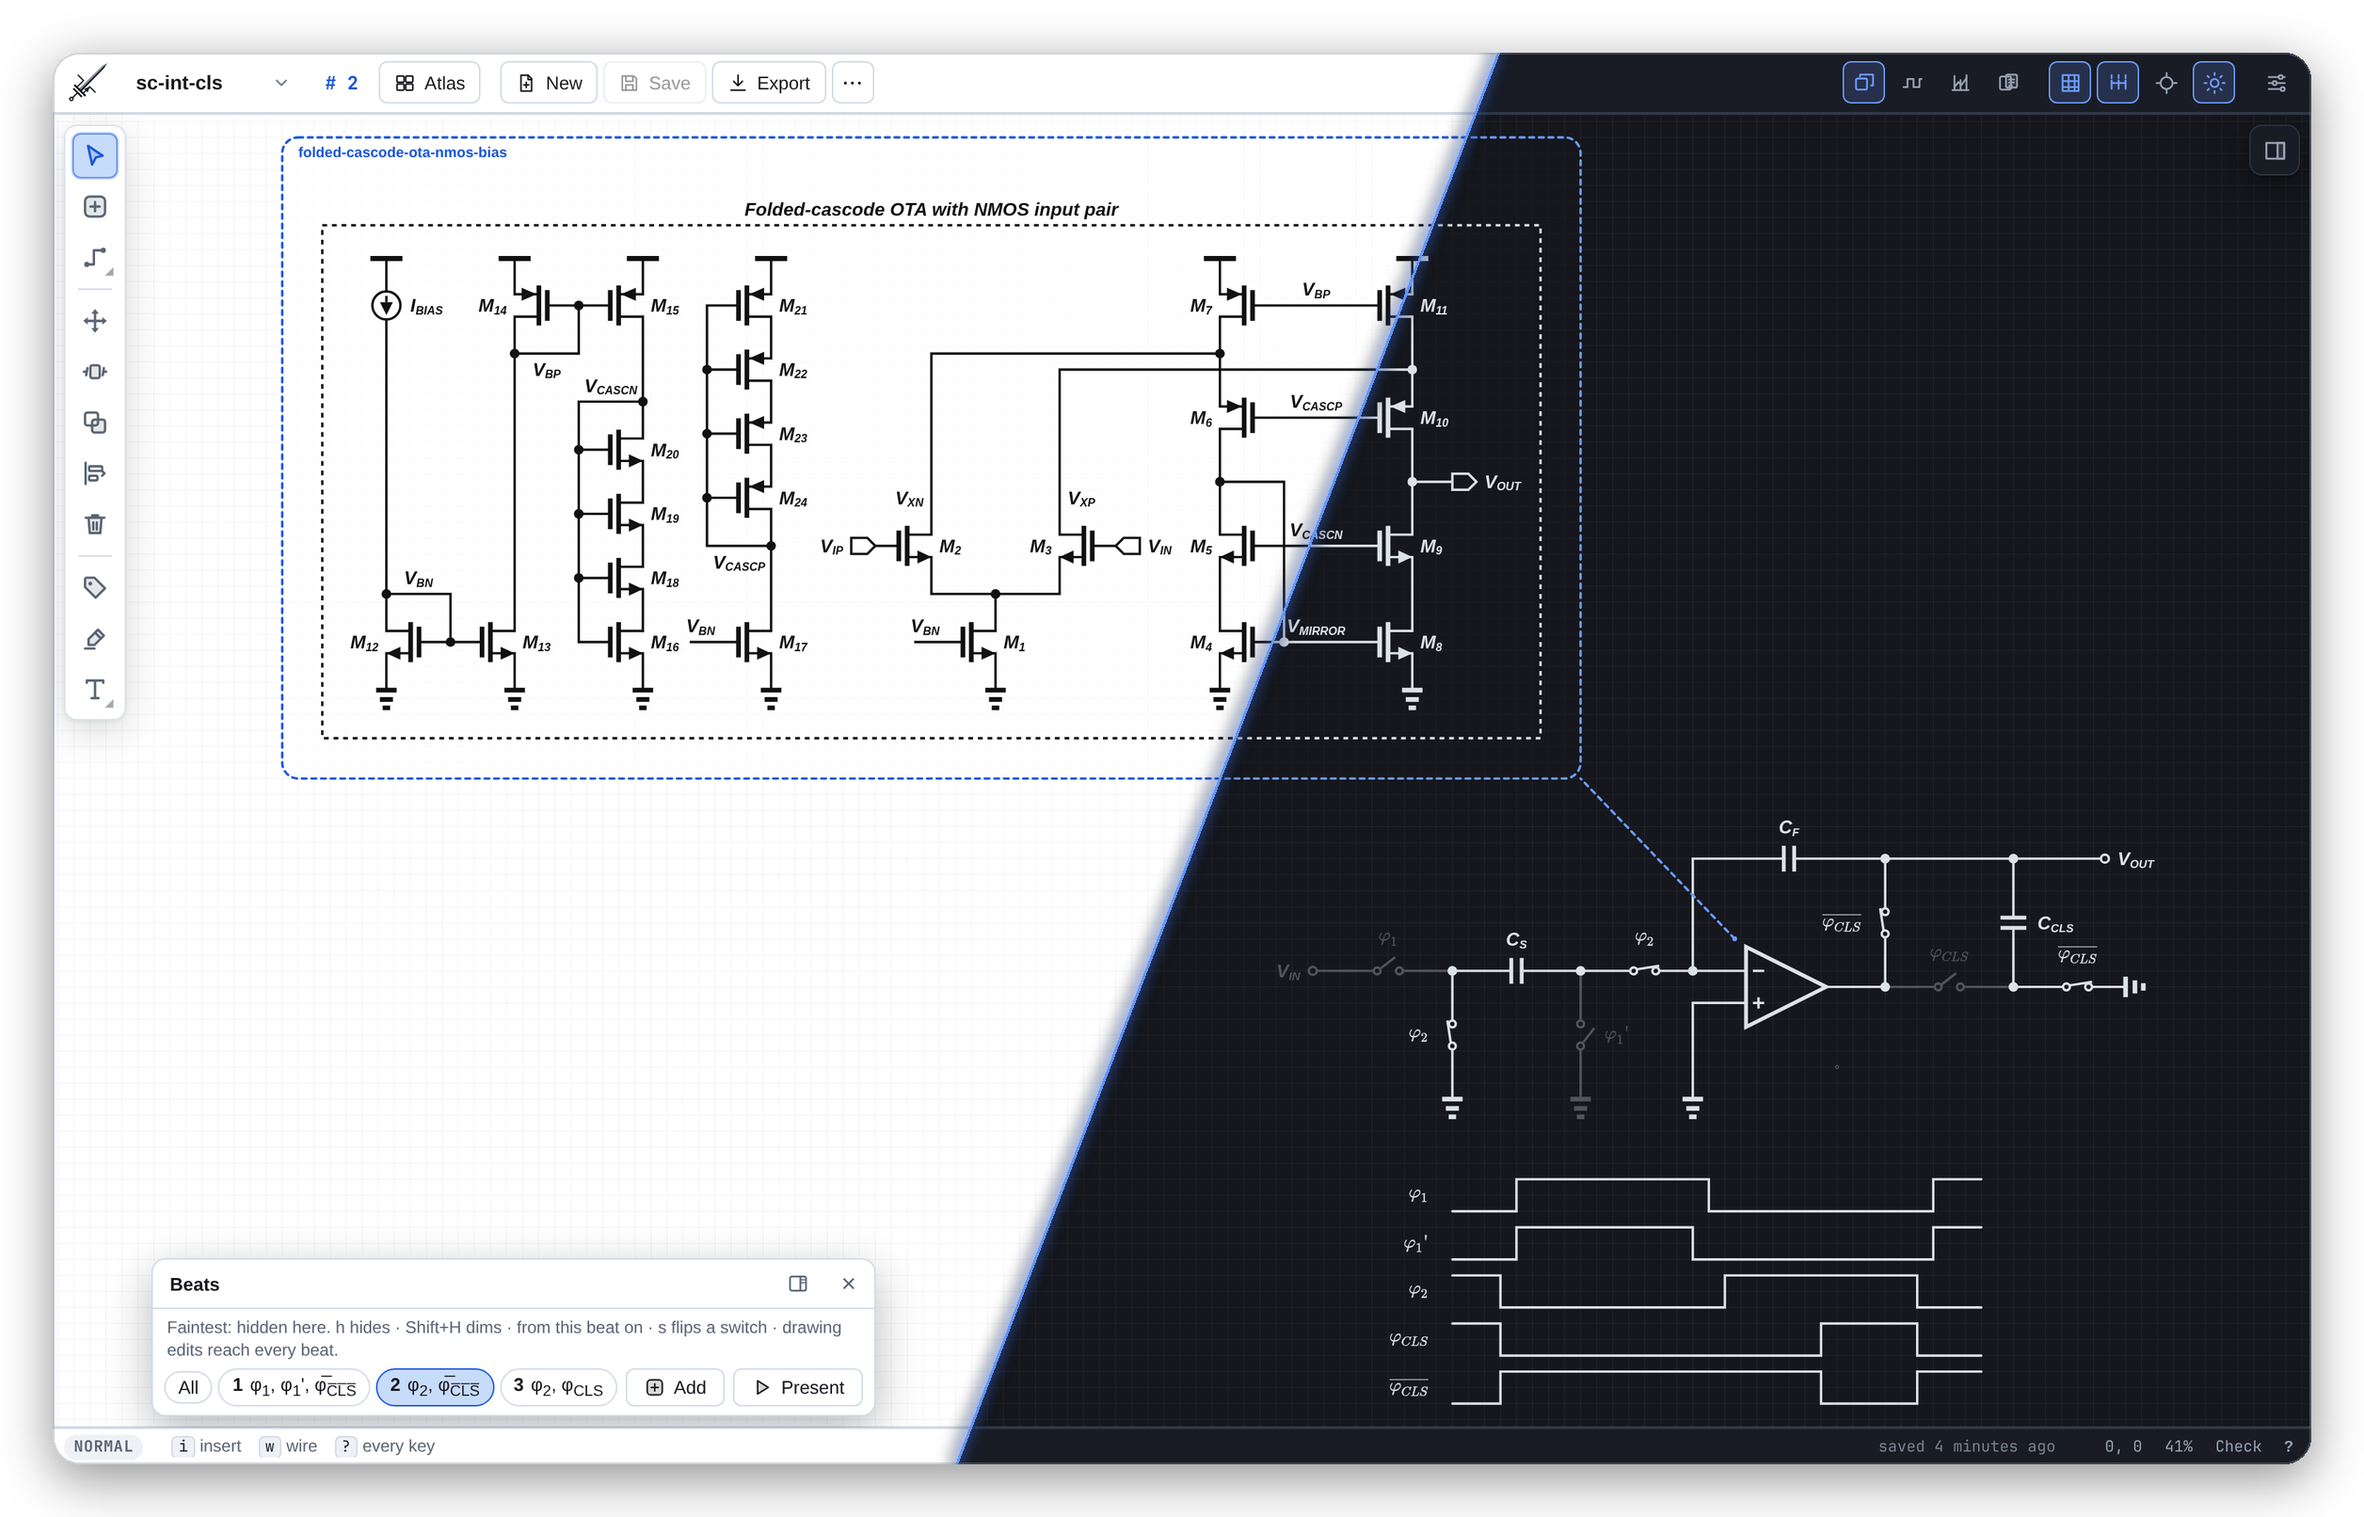
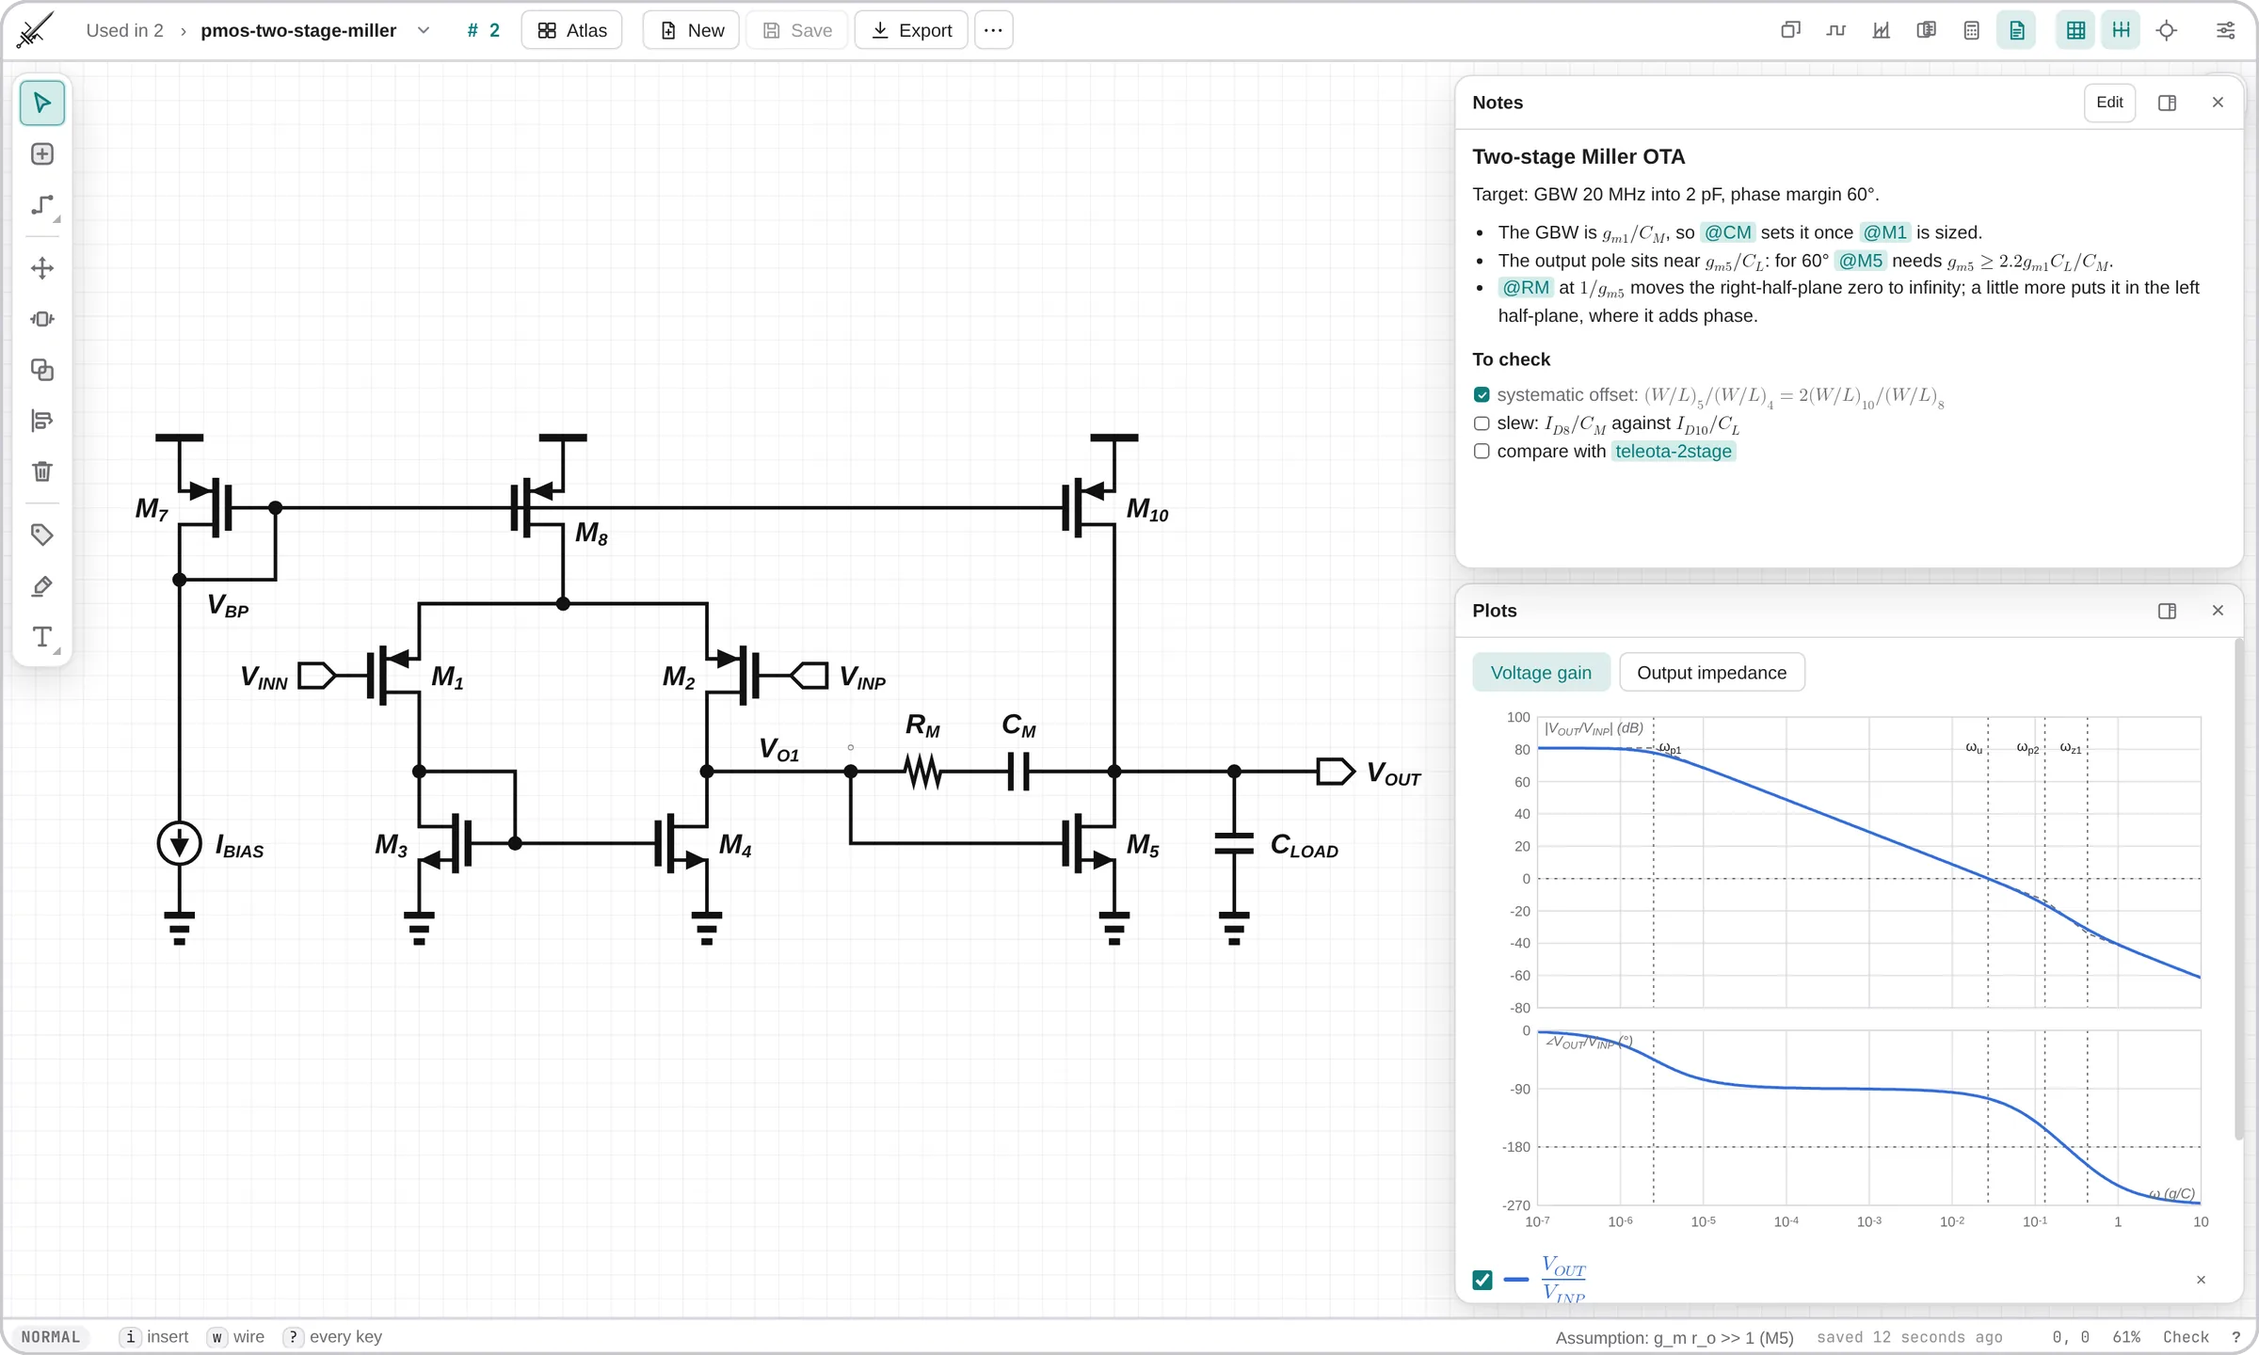
README: a schematic editor first, in plainer words, with new figures
The README leads with drawing, then what a design can carry with it --
notes, analysis, timing and beats, save history, and links -- rather than
sketch-to-equation. New figures: a Miller OTA with its notes and stacked
Bode plots, and a switched-capacitor integrator stepped to a beat with
its timing diagram shaded. The Atlas figure stays.

diff --git a/README.md b/README.md
@@ -8,9 +8,8 @@
 <h1 align="center">Mosfeteer</h1>
 
 <p align="center">
-  <b>Analog circuit design, from sketch to equation.</b><br>
-  Draw textbook-quality schematics, walk through them step by step,<br>
-  and derive their transfer functions.
+  <b>A schematic editor for analog circuits.</b><br>
+  Draw clean schematics, and keep the notes and analysis with them.
 </p>
 
 <p align="center">
@@ -21,55 +20,93 @@
 
 <p align="center">
   <a href="#quick-start">Quick start</a> ·
-  <a href="#what-it-does">What it does</a> ·
+  <a href="#a-design">A design</a> ·
   <a href="#analysis">Analysis</a> ·
-  <a href="#keys-worth-knowing">Keys</a> ·
+  <a href="#keys">Keys</a> ·
   <a href="#more">More</a>
 </p>
 
 <br>
 
 <p align="center">
-  <img src="docs/images/editor.webp" alt="A switched-capacitor integrator in the editor, split between the light and dark themes: its op-amp opens the linked folded-cascode OTA in a bubble, the beats window steps through the clock phases, and the timing diagram sits below.">
+  <img src="docs/images/editor.webp" alt="A two-stage Miller OTA in the editor. Beside the schematic, its notes give the target and the compensation reasoning with math, mentioning parts such as C_M and M5, and a to-do list; below them, the Plots window shows the voltage gain's magnitude over its phase.">
 </p>
 
-## What it does
+Mosfeteer is a drawing tool for analog schematics: quick to draw in, and
+the result is ready for a paper or slides. Each drawing can also carry what
+you worked out about the circuit, such as notes, derived equations, plots,
+a timing diagram, and its earlier saves. A design is one `.json` file in a
+folder.
 
-|  |  |
-| --- | --- |
-| **Draw fast** | Press `i` and type to place a part, `w` to draw a wire. Moving a part bends only the wire legs that must change, so the layout stays as you drew it. |
-| **Explain in steps** | Beats show, dim, and hide parts and flip switches over one drawing, driven by a timing diagram. |
-| **Derive the math** | Symbolic Z<sub>in</sub>, Z<sub>out</sub>, A<sub>v</sub>, poles, zeros, and noise, each term traced back to its devices. |
-| **Analyze block diagrams** | Draw a loop of gains, sums, H(s) and H(z) blocks, samplers, and quantizers, and get its exact transfer functions, plots, and a time-domain simulation. |
-| **Tune it** | An optimizer searches the free coefficients for the best in-band noise, peaking, or pole Q that keeps your limits and signal swings. |
-| **Work across designs** | Parts link to the circuits they stand for. Peek into them, dive in, or keep another design open in a reference window. |
-| **Keep the story** | Notes in Markdown with math beside each design, mentioning its parts and nets. Every save is kept in the file; pin the one that works as a checkpoint and roll back to it later. |
-| **Keep tools at hand** | A calculator that speaks engineering units, reference windows with another design beside this one, a design check, and a command line for every action. |
-| **Share it** | SVG, PDF, and PNG export sized for papers, and a browser-only build that runs from a folder. |
+## A design
+
+- **Schematic.** Press `i` and type to place a part, `w` to draw a wire.
+  Moving a part reroutes only the wires that have to change, so the layout
+  stays as you drew it.
+- **Notes** (`n`). Markdown with math. `@M1` points at a part or net and
+  lights it up on the drawing; `[[amp]]` links to another design.
+- **Analysis** (`Shift+S`). Symbolic small-signal results, block-diagram
+  transfer functions, and switched-capacitor z-domain responses, described
+  [below](#analysis). Equations and plots can be placed on the drawing.
+- **Timing and beats** (`Shift+K`, `Shift+B`). A timing diagram of the
+  clock phases, and beats that step through the circuit phase by phase,
+  with open switches drawn open and what they cut off dimmed. Useful for
+  checking a switched-capacitor circuit, and for presenting it.
+- **History.** Every save is kept inside the file. Pin the one that works
+  as a checkpoint and go back to it later.
+- **Links.** A part can stand for another design: an op-amp for its
+  transistor-level circuit. Peek at it, open it, or keep it beside you in a
+  reference window (`Shift+V`).
 
 <p align="center">
-  <img src="docs/images/atlas.webp" alt="The Atlas: a workspace's designs laid out on one dark sheet. The folded-cascode OTA is picked and lifted on a card; beams of light run to it from the op-amps of three designs that use it, which lift beside it while the rest dim.">
-  <br>
-  <sub><b>The Atlas</b> lays out every design in your workspace on one sheet. Pick one and the designs it links to lift beside it, joined by beams. Search inside them, and open one with a click.</sub>
+  <img src="docs/images/beats.webp" alt="A switched-capacitor integrator stepped to its second beat: the switches open in that phase are drawn open and the parts they cut off are dimmed. In the timing diagram below, a shaded band marks the slots of the phase on screen, and the beats window lists the three phases.">
+</p>
+
+## The workspace
+
+The **Atlas** (`Shift+Backspace`) lays out every design in the folder on
+one sheet. Search it for parts, nets, text, or `#tags`. Pick a design and
+the ones it links to are drawn joined to it. Open one with a double-click.
+
+<p align="center">
+  <img src="docs/images/atlas.webp" alt="The Atlas: a workspace's designs on one dark sheet. The folded-cascode OTA is picked and lifted; lines run to it from the op-amps of three designs that use it.">
 </p>
 
 ## Analysis
 
-The analysis window (`Shift+S`) has two modes, picked by what is drawn.
+The analysis window (`Shift+S`) picks its mode from what is drawn.
 
-**Small-signal** analysis solves a transistor circuit exactly and shows the result the way a textbook would: Z<sub>in</sub>, Z<sub>out</sub>, the gain, its poles and zeros, and input-referred noise, each term traced back to the devices it comes from. Pick the input and output on the drawing; ambiguous picks get a diagnostic, never a guess.
+**Small-signal.** Solves a transistor circuit exactly and writes the result
+as you would by hand: Z<sub>in</sub>, Z<sub>out</sub>, the gain, poles and
+zeros, and input-referred noise. Each symbol links back to the device it
+came from. Optional: the loop gain at an op-amp or transistor, the closed
+loop split into its ideal gain and direct feedthrough, and the poles' time
+constants, one per capacitor. Pick the input and output on the drawing; an
+ambiguous pick gets an explanation, not a guess.
 
-**Signal flow** works on block diagrams: gains, sum and multiply junctions, H(s) and H(z) blocks (MATLAB-style `tf(...)`, delays and DAC pulses included), samplers, and quantizers. Every source gets its exact transfer function to the output from one solve, so a delta-sigma modulator's STF and NTF come out together, with the common factors cancelled. Symbols such as `a_1` or `k` stay symbolic in the equations and get sliders for the plots.
+**Signal flow.** For block diagrams: gains, sums, H(s) and H(z) blocks,
+samplers, and quantizers. Every source's transfer function to the output
+comes from one solve, so a delta-sigma modulator's STF and NTF come out
+together. Symbols like `a_1` stay symbolic in the equations and get sliders
+in the plots.
 
-The **Plots** window (`Shift+W`) shows the result as tabs: magnitude and phase, the step response, a root locus, the loop gain with its margins, the signal swing of every net against the input amplitude (where the loop overloads), and a time-domain simulation of the nets you pick. A diagram with a quantizer also shows its simulated output spectrum. The graph, the swing, and the waveforms can be annotated onto the drawing.
+**Switched-capacitor.** The exact z-domain transfer function of a switched-
+capacitor circuit, by charge conservation from phase to phase, with its kT/C
+noise. The clock comes from the timing diagram.
 
-The **optimizer** searches the free coefficients for the best goal that keeps every limit. Goals and limits are specs on a transfer function over a band (in-band noise, peak, lowest point), pole specs (the highest Q, the largest radius), relations between coefficients (`c_1 >= c_2`), and a swing test that simulates the loop with a sine and keeps chosen nets under their limits. Lee's rule for a modulator is one line: the NTF's peak below 3.5 dB.
+The **Plots** window (`Shift+W`) shows magnitude over phase, the step
+response, root locus, loop gain with margins, signal swing against input
+amplitude, and a time-domain simulation. The **optimizer** searches free
+coefficients for the best result that meets your limits (in-band noise,
+peaking, pole Q, signal swing).
 
-Alongside: a **calculator** (`Shift+E`) that reads `1/(2pi*10k*1n)` and `20*log(ans)`, **reference windows** (`Shift+V`) that keep another design in view, **notes** (`n`) where `@M1` points at a part, a **history** (More → History…) of the last ten saves and the checkpoints you pin, and a **design check** (`x`) for unconnected pins, overlapping nets and labels, and other slips.
+Also at hand: a **calculator** (`Shift+E`) that reads `1/(2pi*10k*1n)`, and
+a **design check** (`x`) for unconnected pins, overlapping nets, and other
+slips.
 
 ## Quick start
 
-All you need is [Node.js](https://nodejs.org/) 18 or newer.
+You need [Node.js](https://nodejs.org/) 18 or newer.
 
 ```sh
 git clone https://github.com/ojarvin/mosfeteer.git
@@ -80,29 +117,40 @@ node launch.mjs
 The editor opens in its own window and quits when you close it.
 
 - **Windows:** double-click `Mosfeteer.cmd`.
-- **Linux or macOS:** `node launch.mjs --install` adds Mosfeteer to the application menu.
-- **No Node?** Open [`browser-only/index.html`](browser-only/index.html) directly. Make one folder for all your designs and open it there (**Open folder…**): in Chrome or Edge new designs save straight into it, and the Atlas shows them all each visit. Firefox and Safari can read the folder, but save by downloading a copy.
+- **Linux or macOS:** `node launch.mjs --install` adds Mosfeteer to the
+  application menu.
+- **No Node?** Open [`browser-only/index.html`](browser-only/index.html)
+  directly and pick a folder for your designs (**Open folder…**). Chrome and
+  Edge save straight into it. Firefox and Safari can read it but save by
+  downloading a copy.
 
-## Keys worth knowing
+## Keys
 
 | | |
 | --- | --- |
-| `i` · `w` | insert a part · draw a wire |
-| `Shift+B` · `Shift+K` | beats · timing diagram |
+| `i` · `w` · `l` | place a part · draw a wire · name a net |
+| `n` · `Shift+V` | notes · reference windows |
 | `Shift+S` · `Shift+W` | analysis · plots |
+| `Shift+K` · `Shift+B` | timing diagram · beats |
 | `Shift+E` · `x` | calculator · design check |
-| `Shift+V` · `n` | reference windows · notes |
 | `Shift+Backspace` | the Atlas |
-| `?` | everything else: keys, tutorial, symbols, tips |
+| `Esc` | let go of the selection, then close windows one by one |
+| `?` | every other key, the tutorials, and the symbols |
 
 ## More
 
 <details>
-<summary><b>Documents</b></summary>
+<summary><b>Files</b></summary>
 
 <br>
 
-Each schematic is one `.json` file, easy to keep in git or send to someone. New designs go to a workspace folder, `~/Documents/Schematics` by default. An open design with no unsaved changes reloads when its file changes on disk, for example after a `git pull`. **Export** (`Ctrl/Cmd+E`) frames the drawing tightly. Pick a page guide (IEEE single or double column) and the text lands at the paper's figure size.
+Each design is one `.json` file, so it is easy to keep in git or send to
+someone, and its notes and save history go with it. New designs go to the
+workspace folder, `~/Documents/Schematics` unless you pick another. A design
+with no unsaved changes reloads when its file changes on disk, after a
+`git pull` for example. **Export** (`Ctrl/Cmd+E`) writes SVG, PDF, or PNG
+cropped to the drawing; with a page guide (IEEE single or double column)
+the text comes out at the paper's figure size.
 
 </details>
 
@@ -111,7 +159,7 @@ Each schematic is one `.json` file, easy to keep in git or send to someone. New 
 
 <br>
 
-The editor, the CLI, and the HTTP API share one command language:
+The editor, the CLI, and the HTTP API use one command language:
 
 ```sh
 npm run cli -- amp "add nmos M1 --at 120 120"   # edits <workspace>/amp.json
@@ -129,13 +177,14 @@ npm run serve   # dev server with auto-restart at http://127.0.0.1:47280/
 npm test
 ```
 
-- [`docs/model.md`](docs/model.md) · [`docs/editor.md`](docs/editor.md): the symbol specification and model rules, and editor behavior
-- [`docs/atlas.md`](docs/atlas.md) · [`docs/hierarchy.md`](docs/hierarchy.md) · [`docs/beats.md`](docs/beats.md): the Atlas, linked designs, and beats
-- [`docs/symbolic-analysis.md`](docs/symbolic-analysis.md) · [`docs/topological-small-signal.md`](docs/topological-small-signal.md): small-signal analysis and how its equations are formed
-- [`docs/signal-flow-analysis.md`](docs/signal-flow-analysis.md): signal-flow analysis, the swing simulation, and the optimizer
+- [`docs/model.md`](docs/model.md) · [`docs/editor.md`](docs/editor.md): symbols, model rules, and editor behavior
+- [`docs/notes-and-history.md`](docs/notes-and-history.md): notes and save history
+- [`docs/atlas.md`](docs/atlas.md) · [`docs/hierarchy.md`](docs/hierarchy.md) · [`docs/beats.md`](docs/beats.md): the Atlas, linked designs, beats, and timing diagrams
+- [`docs/symbolic-analysis.md`](docs/symbolic-analysis.md) · [`docs/topological-small-signal.md`](docs/topological-small-signal.md): small-signal analysis
+- [`docs/signal-flow-analysis.md`](docs/signal-flow-analysis.md) · [`docs/switched-cap-analysis.md`](docs/switched-cap-analysis.md): signal-flow and switched-capacitor analysis, swing, and the optimizer
 
 </details>
 
 ## License
 
-[MIT](LICENSE). The vendored Latin Modern Math font in `src/web/fonts/` keeps its own [GUST Font License](src/web/fonts/GUST-FONT-LICENSE.txt).
+[MIT](LICENSE). The bundled Latin Modern Math font in `src/web/fonts/` has its own [GUST Font License](src/web/fonts/GUST-FONT-LICENSE.txt).
